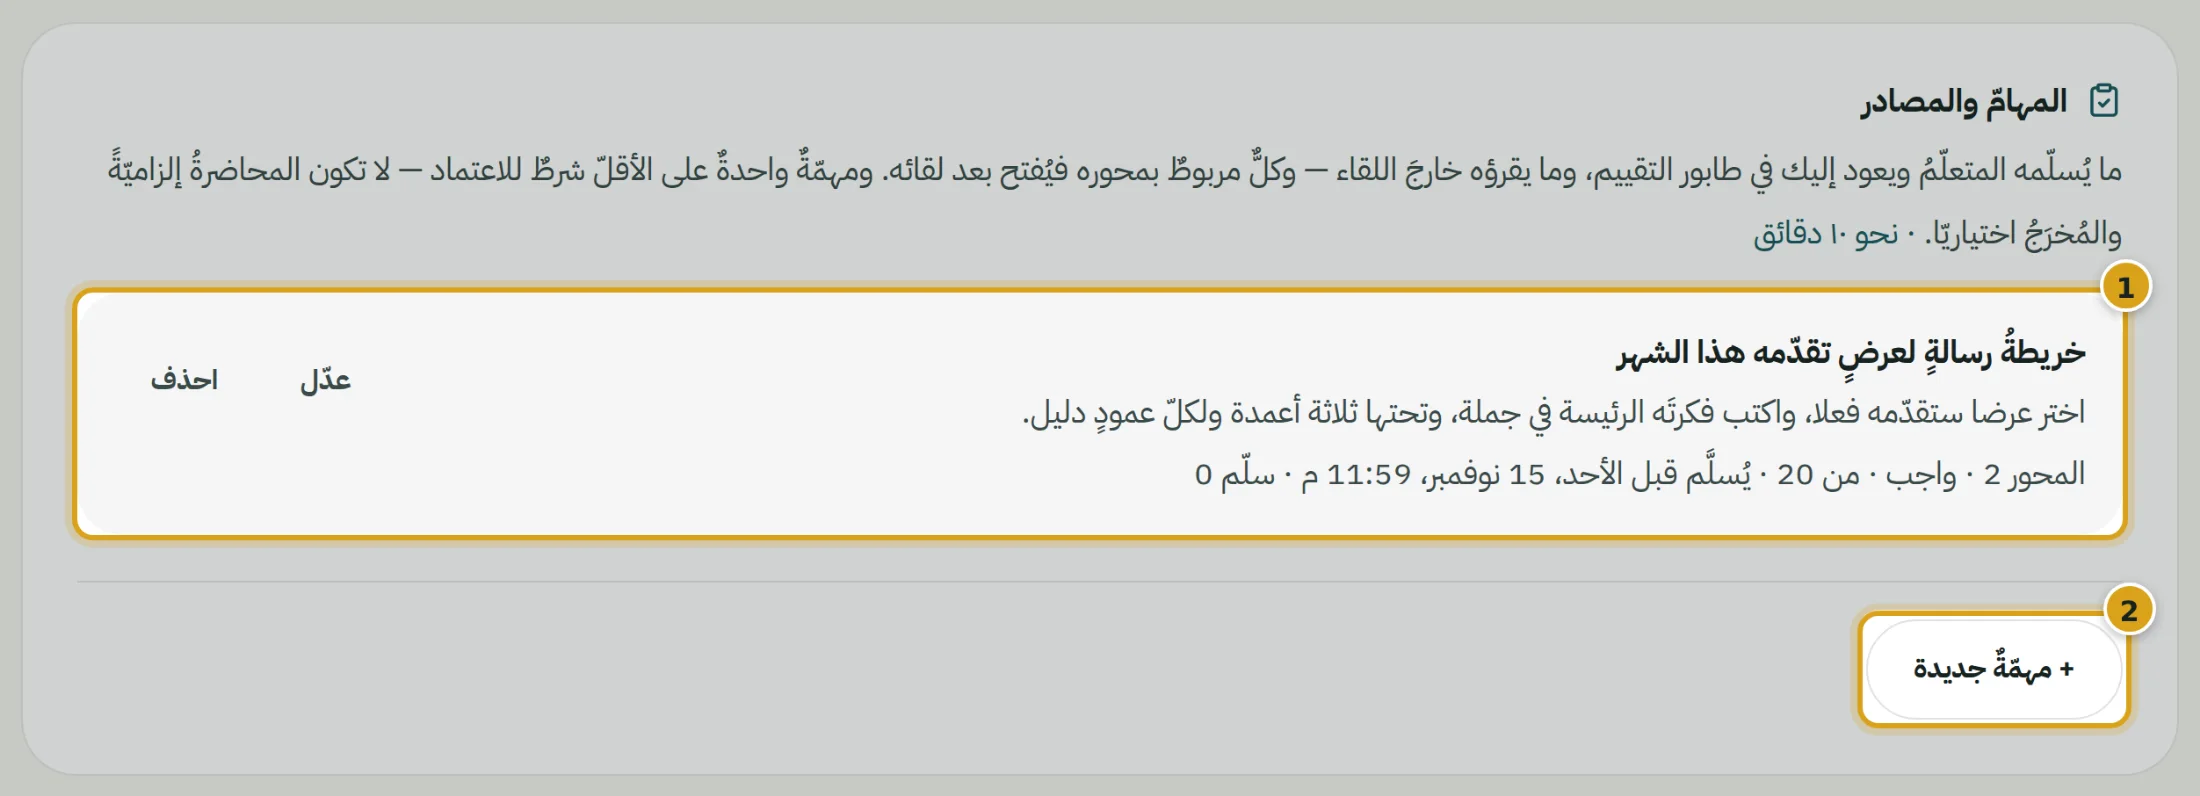
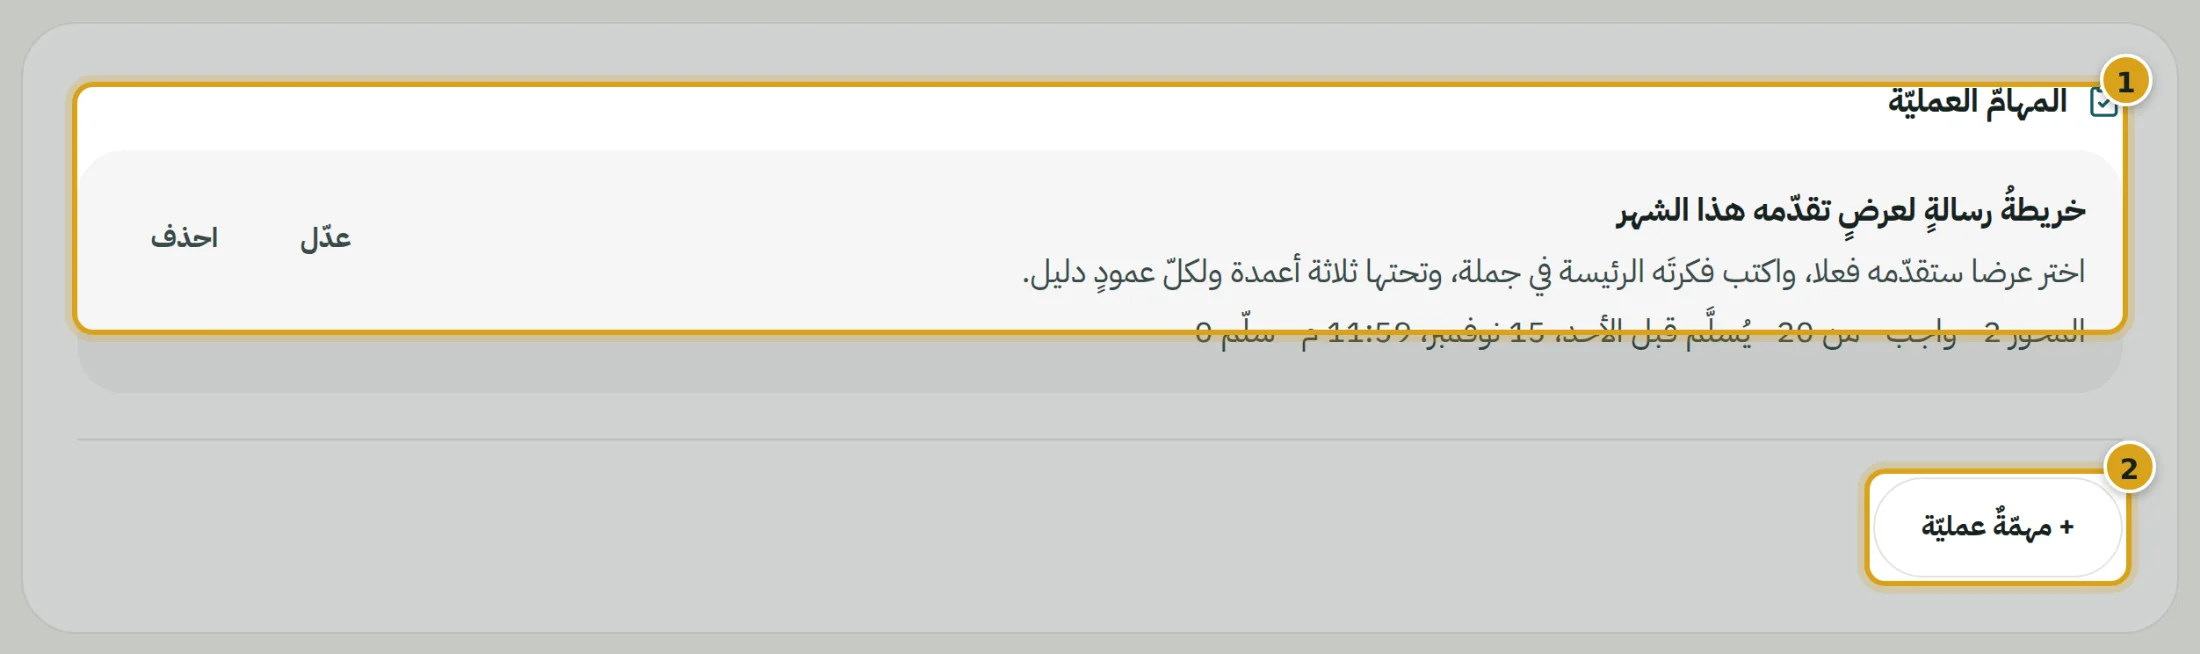
الدليل: الخطوةُ الخامسة بألسنتها الثلاثة، ولقطاتُها
· ثلاثُ لقطاتٍ جديدة (ws-tab-tasks · ws-tab-resources · ws-tab-project) تُلتقط
  بفتح اللسان، ولسانُ المهامّ ونموذجُه مفتوحٌ ومرفقُه «ملفّ» — ليُرى الرفعُ حيث
  طُلب. ولقطتا المهامّ والمصادر القديمتان تفتحان لسانَهما قبل التصوير.
· نصُّ الخطوة الخامسة في الدليل: ثلاثةُ ألسنةٍ كلُّها إلزاميّة، والنوعُ أوّلا في
  المرفقات، ومشروعُ التخرّج بلسانه وشرطِه.

Claude-Session: https://claude.ai/code/session_01KvWc79RrumheVsskoZYsA3

diff --git a/src/data/trainer-guide/content.ts b/src/data/trainer-guide/content.ts
@@ -293,16 +293,19 @@ export const GUIDE_SECTIONS: GuideSection[] = [
         ],
       },
       { kind: 'figure', shot: 'ws-live-form', alt: 'نموذجُ إضافة لقاءٍ مباشر', caption: 'نموذجُ اللقاء المباشر — ثمّ «أرسِلْه للاعتماد» (1)' },
-      { kind: 'figure', shot: 'ws-tasks', alt: 'الخطوةُ الخامسة: مهمّةٌ مؤلَّفة وزرُّ مهمّةٍ جديدة', caption: '1 مهمّةٌ ألّفتَها — محورُها ونوعُها ودرجتُها وموعدُ تسليمها · 2 «+ مهمّةٌ جديدة»' },
+      { kind: 'figure', shot: 'ws-tab-tasks', alt: 'الخطوةُ الخامسة: لسانُ المهامّ العمليّة ونموذجُ مهمّةٍ بمرفقٍ نوعُه ملفّ', caption: '1 الألسنةُ الثلاثة — والنقطةُ الذهبيّة على ما لم يتمّ · 2 تعليماتُ اللسان وتوصياتُه · 3 نوعُ المرفق أوّلا: «ملفّ» يُظهر «ارفع الملفّ»، وغيرُه خانةَ الرابط' },
       {
         kind: 'steps',
-        title: 'الخطوة الخامسة — «المهامّ والمصادر»',
+        title: 'الخطوة الخامسة — «المهامّ والمصادر»: ثلاثةُ ألسنةٍ كلُّها إلزاميّة',
         items: [
-          { text: 'مهمّةٌ واحدةٌ على الأقلّ: العنوان، والتعليمات، والمرفقات، والمحور، والنوع (واجب أو اختبار أو مشروع تخرّج)، والدرجةُ العظمى، وآخرُ موعد.', detail: 'تُفتح للمتعلّم بعد انتهاء أوّل لقاءٍ لمحورها، وتسليماتُها تصلك في «طابور التقييم».' },
-          { text: 'ومصدرٌ واحدٌ على الأقلّ: كتابٌ أو ملفّ، أو رابطٌ عامّ، تربطه بمحوره — أو تجعله «قراءةٌ مسبقة» يُفتح مع كرّاسة الموعد قبل اللقاء.' },
+          { text: '«المهامّ العمليّة»: مهمّةٌ لكلّ محورٍ على الأقلّ — العنوان، والتعليمات، والمرفقات، والمحور، والنوع (واجب أو اختبار)، والدرجةُ العظمى، وآخرُ موعد.', detail: 'تُفتح للمتعلّم بعد انتهاء أوّل لقاءٍ لمحورها، وتسليماتُها تصلك في «طابور التقييم».' },
+          { text: 'وفي المرفقات اختر النوعَ أوّلا: «ملفّ» فيظهر «ارفع الملفّ»، أو فيديو أو رابط أو كتاب فتظهر خانةُ الرابط بتلميح نوعه.' },
+          { text: '«المصادر»: كتابٌ أو ملفّ، أو رابطٌ عامّ، تربطه بمحوره — أو تجعله «قراءةٌ مسبقة» يُفتح مع أوّل يومٍ في موعده قبل اللقاء.' },
+          { text: '«مشروع التخرّج»: مشروعٌ واحدٌ يجمع محاورَ الدورة في عملٍ حقيقيّ، مربوطٌ بالمحور الأخير وموعدُه آخرُ يومٍ في الشعبة.', detail: 'لا تُرسَل الخطّةُ للاعتماد بلا مشروعِ تخرّج — واللسانُ يحمل نقطةً ذهبيّةً حتّى تضعه.' },
         ],
       },
       { kind: 'figure', shot: 'ws-sources', alt: 'مصدرٌ مربوطٌ بمحوره ومعلَّمٌ قراءةً مسبقة', caption: '1 اسمُ المصدر · 2 محورُه · 3 «قراءةٌ مسبقة»' },
+      { kind: 'figure', shot: 'ws-tab-project', alt: 'لسانُ مشروع التخرّج ونموذجُه بنوعٍ ثابت', caption: '1 لسانُ «مشروع التخرّج» — بنقطةٍ ذهبيّةٍ حتّى يوضع · 2 تعليماتُه وتوصياتُه' },
       { kind: 'figure', shot: 'ws-submit', alt: 'الخطوةُ السادسة: إقرارُ الموافقة قبل الإرسال', caption: 'الخطوة السادسة: منهجُ شعبتك كما سيقرؤه المعتمِد، ثمّ الإقرار (1)، ثمّ «أرسِلها للاعتماد» في أعلى الصفحة.' },
       { kind: 'p', text: 'الخطوة السادسة — «الاعتماد»: تقرأ منهجَ شعبتك كاملا كما سيراه المتعلّمون، وتؤشّر على الإقرار، ثمّ «أرسِلها للاعتماد». وإن نقص شيءٌ قيل لك ما هو، و«افتح أوّلَها» يقودك إليه.' },
       { kind: 'callout', tone: 'important', title: 'بعد الإرسال', text: 'تُقفل الخطّةُ حتّى يصل قرارُنا. فإن طُلبت تعديلاتٌ وصلتك في الإشعارات والبريد، ومكتوبةً في رأس كلّ خطوة. وبعد الاعتماد ما تغيّره يصل الإدارةَ أوّلا، ويرى المتعلّمون المعتمَدَ حتّى يُعتمَد الجديد.' },

diff --git a/scripts/trainer-guide/capture.ts b/scripts/trainer-guide/capture.ts
@@ -404,10 +404,10 @@ const ACTIVE: Shot[] = [
       await step(e, 5)
       const task = p.getByText('خريطةُ رسالةٍ لعرضٍ تقدّمه هذا الشهر', { exact: true }).first()
       await shoot(e, {
-        name: 'ws-tasks', clip: await panel(btn(p, /مهمّةٌ جديدة/), 600), clipPad: 12,
+        name: 'ws-tasks', clip: await panel(btn(p, /مهمّةٌ عمليّة/), 600), clipPad: 12,
         marks: [
           { target: await panel(task), n: 1, pad: 3 },
-          { target: btn(p, /مهمّةٌ جديدة/), n: 2, pad: 5 },
+          { target: btn(p, /مهمّةٌ عمليّة/), n: 2, pad: 5 },
         ],
       })
     },
@@ -418,6 +418,9 @@ const ACTIVE: Shot[] = [
       const p = e.page
       await open(e, `/trainer/cohort/${await cohortId(e, 'الدفعةُ الأولى')}`)
       await step(e, 5)
+      /* والمصادرُ صارت لسانا ثانيا (٣٠ سبتمبر ٢٠٢٦) */
+      await p.getByRole('tablist', { name: 'أقسامُ المهامّ والمصادر' }).getByRole('tab', { name: /المصادر/ }).click()
+      await settle(e)
       const first = p.getByRole('textbox', { name: 'اسم المصدر 1' })
       await shoot(e, {
         name: 'ws-sources', clip: await panel(first, 600), clipPad: 12, maxHeight: 1000,
@@ -429,6 +432,38 @@ const ACTIVE: Shot[] = [
       })
     },
   },
+  /* ═══ ألسنةُ «المهامّ والمصادر» الثلاثة (٣٠ سبتمبر ٢٠٢٦) ═══ */
+  ...(['tasks', 'resources', 'project'] as const).map((tab): Shot => ({
+    name: `ws-tab-${tab}`,
+    async run(e) {
+      const p = e.page
+      await open(e, `/trainer/cohort/${await cohortId(e, 'الدفعةُ الأولى')}`)
+      await step(e, 5)
+      const label = { tasks: 'المهامّ العمليّة', resources: 'المصادر', project: 'مشروع التخرّج' }[tab]
+      const bar = p.getByRole('tablist', { name: 'أقسامُ المهامّ والمصادر' })
+      await bar.getByRole('tab', { name: new RegExp(label) }).click()
+      await settle(e)
+      /* ولسانُ المهامّ يُصوَّر ونموذجُه مفتوحٌ ومرفقُه «ملفّ» — ليُرى الرفعُ حيث طُلب */
+      if (tab !== 'resources') {
+        await btn(p, tab === 'project' ? '+ مشروعُ التخرّج' : '+ مهمّةٌ عمليّة').click()
+        await settle(e)
+        if (tab === 'tasks') {
+          await btn(p, '+ مرفق').click()
+          await p.getByRole('textbox', { name: 'اسم المرفق 1' }).fill('نموذجُ التسليم')
+          await settle(e)
+        }
+      }
+      const stage = p.locator('div.space-y-5').filter({ has: bar }).first()
+      await shoot(e, {
+        name: `ws-tab-${tab}`, clip: stage, clipPad: 10, maxHeight: 3600,
+        marks: [
+          { target: bar.getByRole('tab', { name: new RegExp(label) }), n: 1, pad: 4 },
+          { target: p.locator('p', { hasText: 'تعليماتٌ وتوصيات' }).first().locator('xpath=..'), n: 2, pad: 4 },
+          ...(tab === 'tasks' ? [{ target: p.getByRole('combobox', { name: 'نوع المرفق 1' }), n: 3, pad: 4 }] : []),
+        ],
+      })
+    },
+  })),
   {
     name: 'ws-submit',
     async run(e) {

diff --git a/src/data/trainer-guide/shots.ts b/src/data/trainer-guide/shots.ts
@@ -156,9 +156,21 @@ export const GUIDE_SHOTS: Record<string, { w: number; h: number }> = {
     "w": 2200,
     "h": 1478
   },
+  "ws-tab-project": {
+    "w": 2200,
+    "h": 3596
+  },
+  "ws-tab-resources": {
+    "w": 2200,
+    "h": 3096
+  },
+  "ws-tab-tasks": {
+    "w": 2200,
+    "h": 4183
+  },
   "ws-tasks": {
     "w": 2200,
-    "h": 796
+    "h": 654
   },
   "ws-workbooks": {
     "w": 2200,
